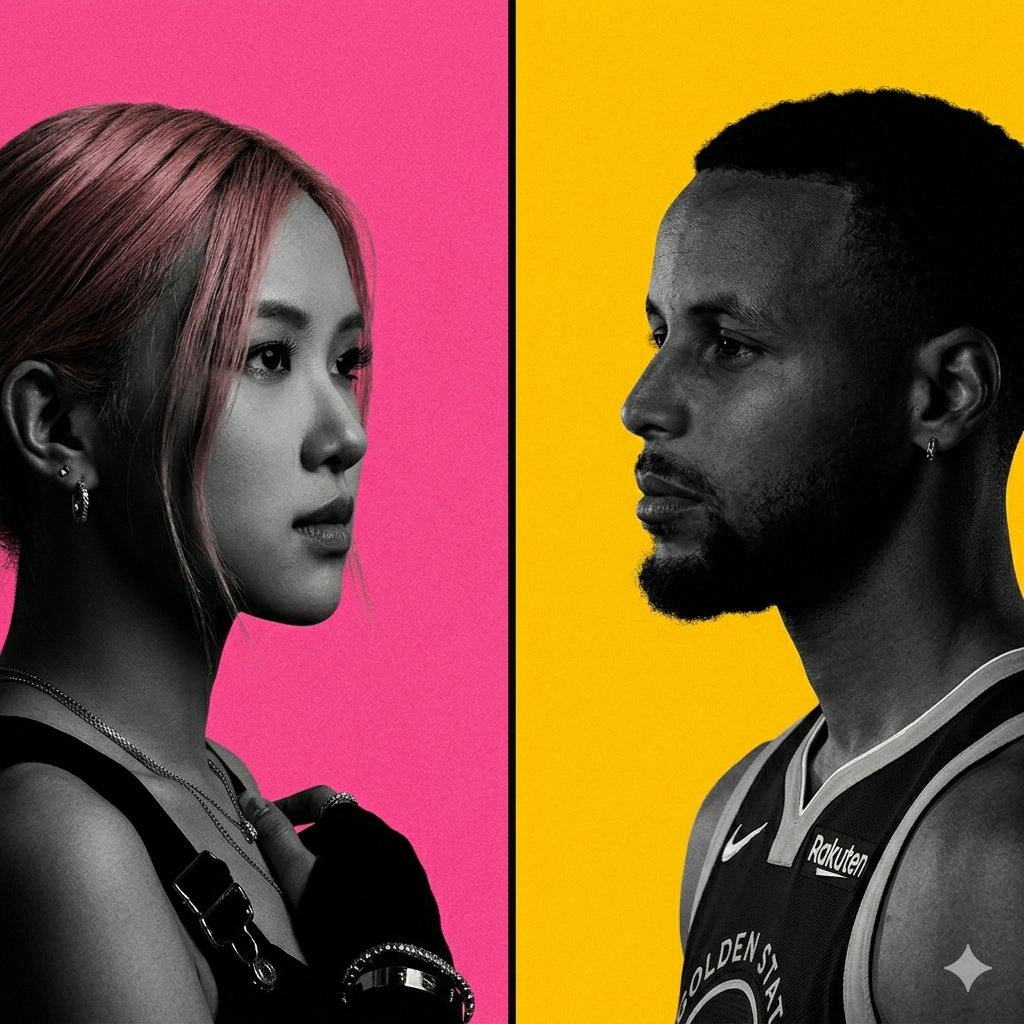
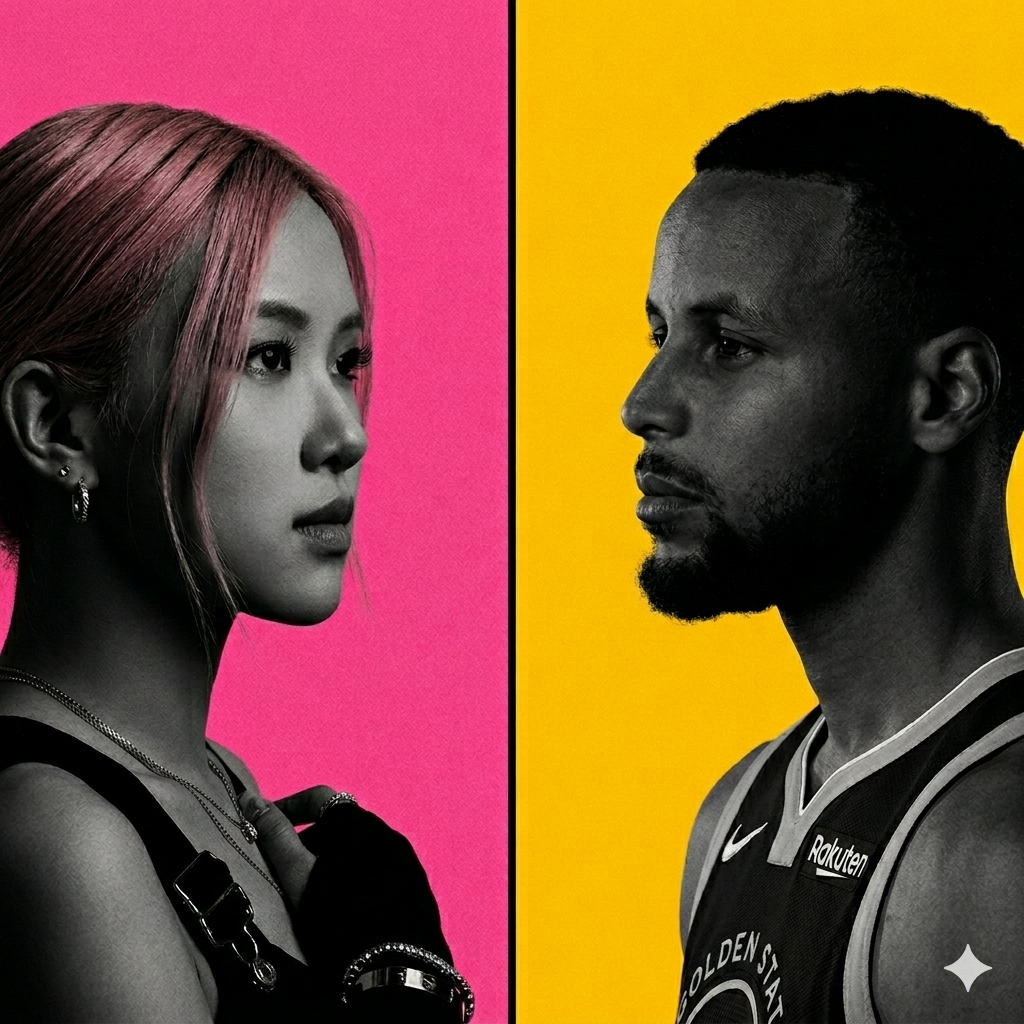
words

Changed region(s): [[0.9062, 0.9062, 0.9688, 0.9688], [0.4375, 0.9375, 0.4688, 1.0]]

diff --git a/blog.html b/blog.html
@@ -403,7 +403,7 @@
 
                     <p>Overall, I felt like a stronger person. It definitely helped seeing tangible results on my body, and I started to become more confident. External validation definitely helped too if I have to be completely honest. My coworkers looked at me with hand wraps and thought it was the coolest thing ever. My friends naturally became very curious about my boxing lessons, as it's not often you come across a boxer.</p>
 
-                    <p>My goal was to eventually spar, but I never got around to it. Once I started thinking about it seriously, the gym was planning to revamp the sparring classes, which meant they were going to be on hold for a while. So the timing felt right to step away for now, especially after watching Sabastian Sawe and Yomif Kejelcha recently break the two-hour barrier at London. That reminded me of how badly I wanted to go sub-three. I would definitely like to return to boxing after my next marathon though — it taught me a lot, and I appreciated the opportunity to experience new things and learn new skills.
+                    <p>My goal was to eventually spar, but I never got around to it. Once I started thinking about it seriously, the gym was planning to revamp the sparring classes, which meant they were going to be on hold for a while. So the timing felt right to step away for now, especially after watching Sabastian Sawe and Yomif Kejelcha recently break the two-hour barrier at the London marathon. That reminded me of how badly I wanted to run sub-three. I would definitely like to return to boxing after my next marathon though — it taught me a lot, and I appreciated the opportunity to experience new things and learn new skills.
                     </p>
                 </div>
             </div>
